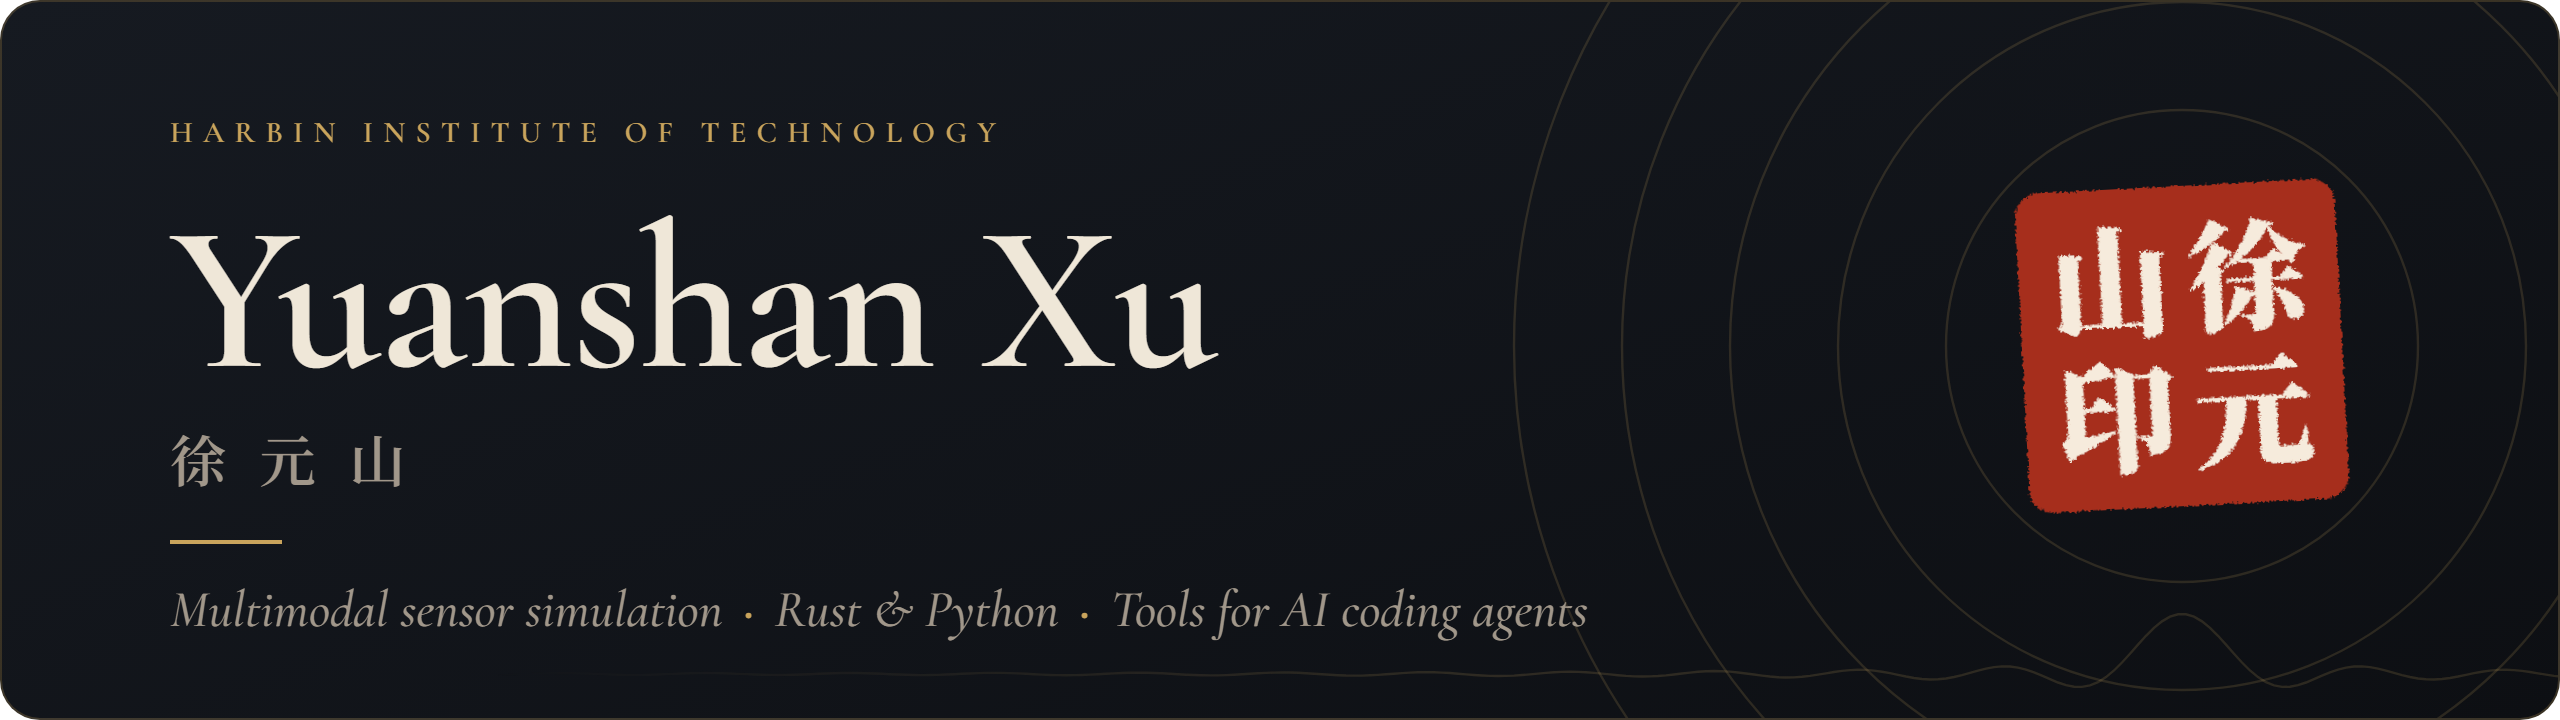
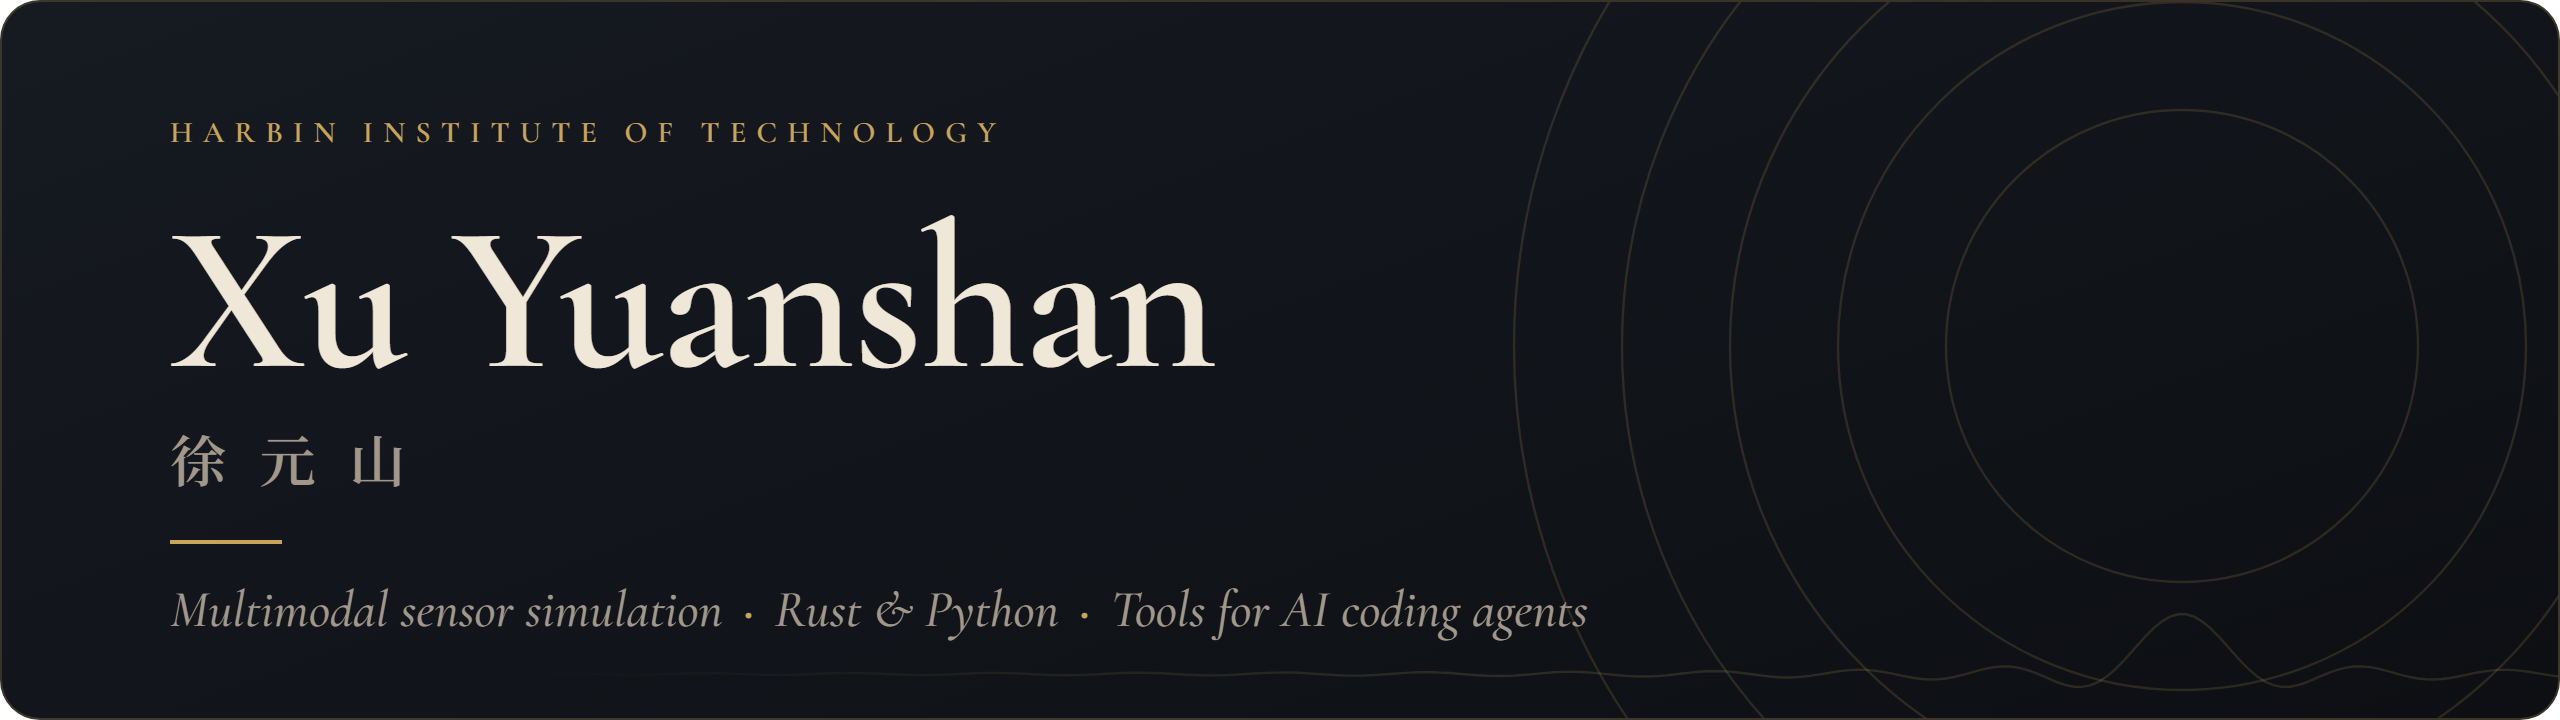
Remove seal, use Xu Yuanshan

Changed region(s): [[0.7812, 0.2444, 0.9375, 0.7333], [0.0625, 0.3056, 0.4688, 0.5194]]

diff --git a/assets/banner.py b/assets/banner.py
@@ -5,7 +5,7 @@ from playwright.sync_api import sync_playwright
 
 HERE = Path(__file__).parent
 W, H = 1280, 360
-CX, CY = 1090, 172  # seal centre, also the centre of the rings and the sinc main lobe
+CX, CY = 1090, 172  # centre of the rings and of the sinc main lobe
 
 rings = ''.join(f'<circle cx="{CX}" cy="{CY}" r="{r}"/>' for r in (118, 172, 226, 280, 334))
 sinc = ' '.join(
@@ -15,12 +15,12 @@ sinc = ' '.join(
 
 HTML = f"""<!doctype html><html><head><meta charset="utf-8">
 <link rel="stylesheet" href="https://fonts.googleapis.com/css2?family=Cormorant+Garamond:ital,wght@0,600;1,500&display=block">
-<link rel="stylesheet" href="https://fonts.googleapis.com/css2?family=Noto+Serif+SC:wght@600;900&text=%E5%BE%90%E5%85%83%E5%B1%B1%E5%8D%B0&display=block">
+<link rel="stylesheet" href="https://fonts.googleapis.com/css2?family=Noto+Serif+SC:wght@600&text=%E5%BE%90%E5%85%83%E5%B1%B1&display=block">
 <style>
   :root {{ --bg1:#F8F2E7; --bg2:#EFE5D3; --ink:#1E1915; --muted:#6F665C; --accent:#B3301C;
-          --edge:rgba(30,25,21,.10); --ring:rgba(179,48,28,.15); --seal:#B3301C; --seal-ink:#FBF5EC; }}
+          --edge:rgba(30,25,21,.10); --ring:rgba(179,48,28,.15); }}
   .dark {{ --bg1:#161A21; --bg2:#0D0F13; --ink:#EFE7D8; --muted:#A1978A; --accent:#C9A45C;
-          --edge:rgba(201,164,92,.24); --ring:rgba(201,164,92,.17); --seal:#A62E1C; --seal-ink:#F6EBDC; }}
+          --edge:rgba(201,164,92,.24); --ring:rgba(201,164,92,.17); }}
   html, body {{ margin:0; background:transparent; }}
   .card {{ position:relative; width:{W}px; height:{H}px; box-sizing:border-box; overflow:hidden;
           border-radius:20px; border:1px solid var(--edge); background:linear-gradient(160deg, var(--bg1), var(--bg2)); }}
@@ -33,22 +33,15 @@ HTML = f"""<!doctype html><html><head><meta charset="utf-8">
   .bar {{ width:56px; height:2px; background:var(--accent); margin:26px 0 20px; }}
   .tag {{ font:italic 500 26px/1 'Cormorant Garamond'; color:var(--muted); }}
   .tag b {{ font-weight:500; font-style:normal; color:var(--accent); padding:0 .4em; }}
-  .seal {{ position:absolute; left:{CX - 80}px; top:{CY - 80}px; width:160px; height:160px; box-sizing:border-box;
-          padding:12px; border-radius:12px; background:var(--seal); color:var(--seal-ink); transform:rotate(-3deg);
-          display:grid; grid-template-columns:1fr 1fr; place-items:center; font:900 60px/1 'Noto Serif SC'; filter:url(#rough); }}
 </style></head><body><div class="card">
-  <svg width="0" height="0" style="position:absolute"><filter id="rough">
-    <feTurbulence type="fractalNoise" baseFrequency="0.8" numOctaves="2" seed="7" result="n"/>
-    <feDisplacementMap in="SourceGraphic" in2="n" scale="3" xChannelSelector="R" yChannelSelector="G"/></filter></svg>
   <svg class="deco" width="{W}" height="{H}">{rings}<polyline points="{sinc}"/></svg>
   <div class="text">
     <div class="kicker">Harbin Institute of Technology</div>
-    <div class="name">Yuanshan Xu</div>
+    <div class="name">Xu Yuanshan</div>
     <div class="cn">徐元山</div>
     <div class="bar"></div>
     <div class="tag">Multimodal sensor simulation<b>·</b>Rust &amp; Python<b>·</b>Tools for AI coding agents</div>
   </div>
-  <div class="seal"><span>山</span><span>徐</span><span>印</span><span>元</span></div>
 </div></body></html>"""
 
 with sync_playwright() as p:
@@ -56,8 +49,8 @@ with sync_playwright() as p:
     page = browser.new_page(viewport={'width': W, 'height': H}, device_scale_factor=2)
     page.set_content(HTML, wait_until='networkidle')
     page.evaluate('document.fonts.ready.then(() => true)')
-    print([f"{f['family']} {f['weight']} {f['status']}" for f in page.evaluate(
-        '[...document.fonts].map(f => ({family: f.family, weight: f.weight, status: f.status}))')])
+    print('loaded fonts:', [f"{f['family']} {f['weight']}" for f in page.evaluate(
+        '[...document.fonts].map(f => ({family: f.family, weight: f.weight, status: f.status}))') if f['status'] == 'loaded'])
     for theme in ('light', 'dark'):
         page.evaluate(f"document.body.className = '{theme}'")
         page.locator('.card').screenshot(path=HERE / f'banner-{theme}.png', omit_background=True)

diff --git a/README.md b/README.md
@@ -1,6 +1,6 @@
 <picture>
   <source media="(prefers-color-scheme: dark)" srcset="assets/banner-dark.png">
-  <img alt="Yuanshan Xu (徐元山) · Harbin Institute of Technology · Multimodal sensor simulation · Rust & Python · Tools for AI coding agents" src="assets/banner-light.png">
+  <img alt="Xu Yuanshan (徐元山) · Harbin Institute of Technology · Multimodal sensor simulation · Rust & Python · Tools for AI coding agents" src="assets/banner-light.png">
 </picture>
 
 Master's student at Harbin Institute of Technology, working on multimodal sensor simulation. I also build tools and plugins for AI coding agents such as Claude Code and DeepSeek Harness.
